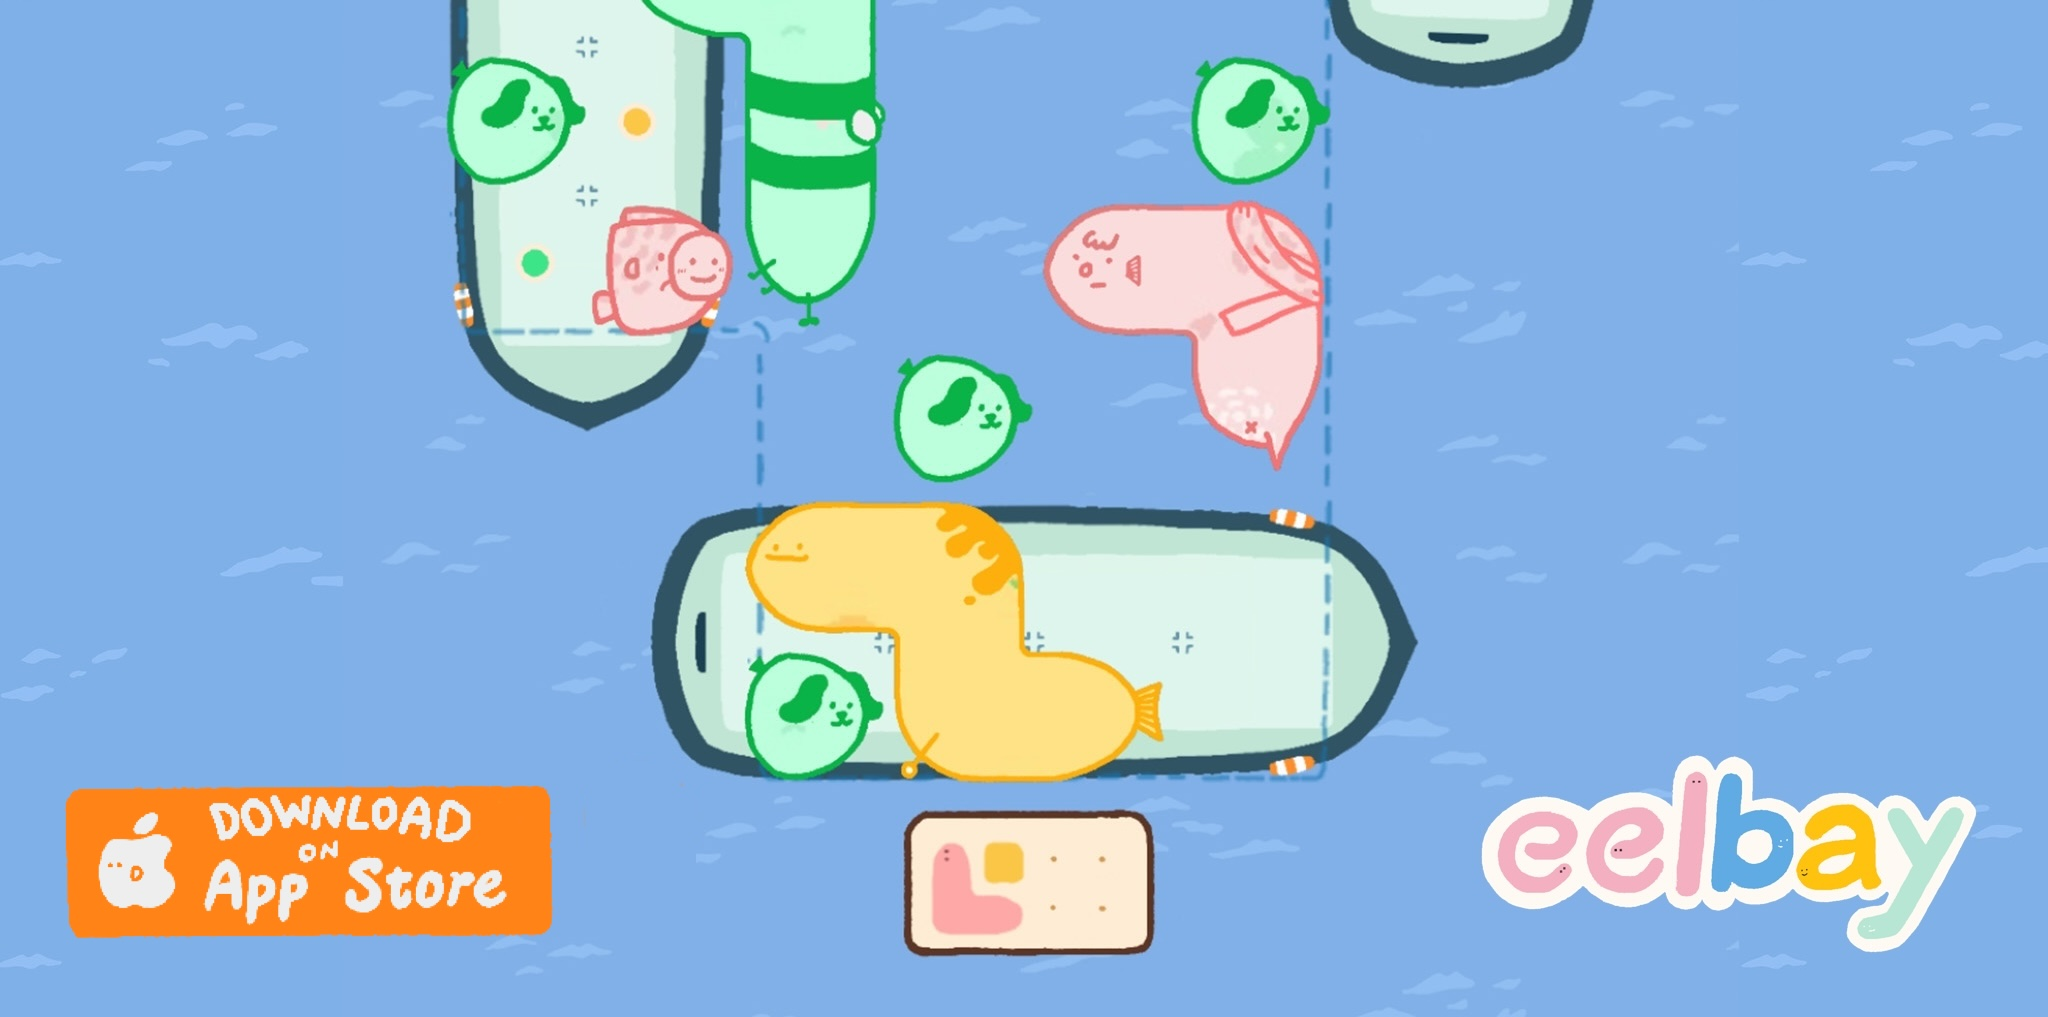
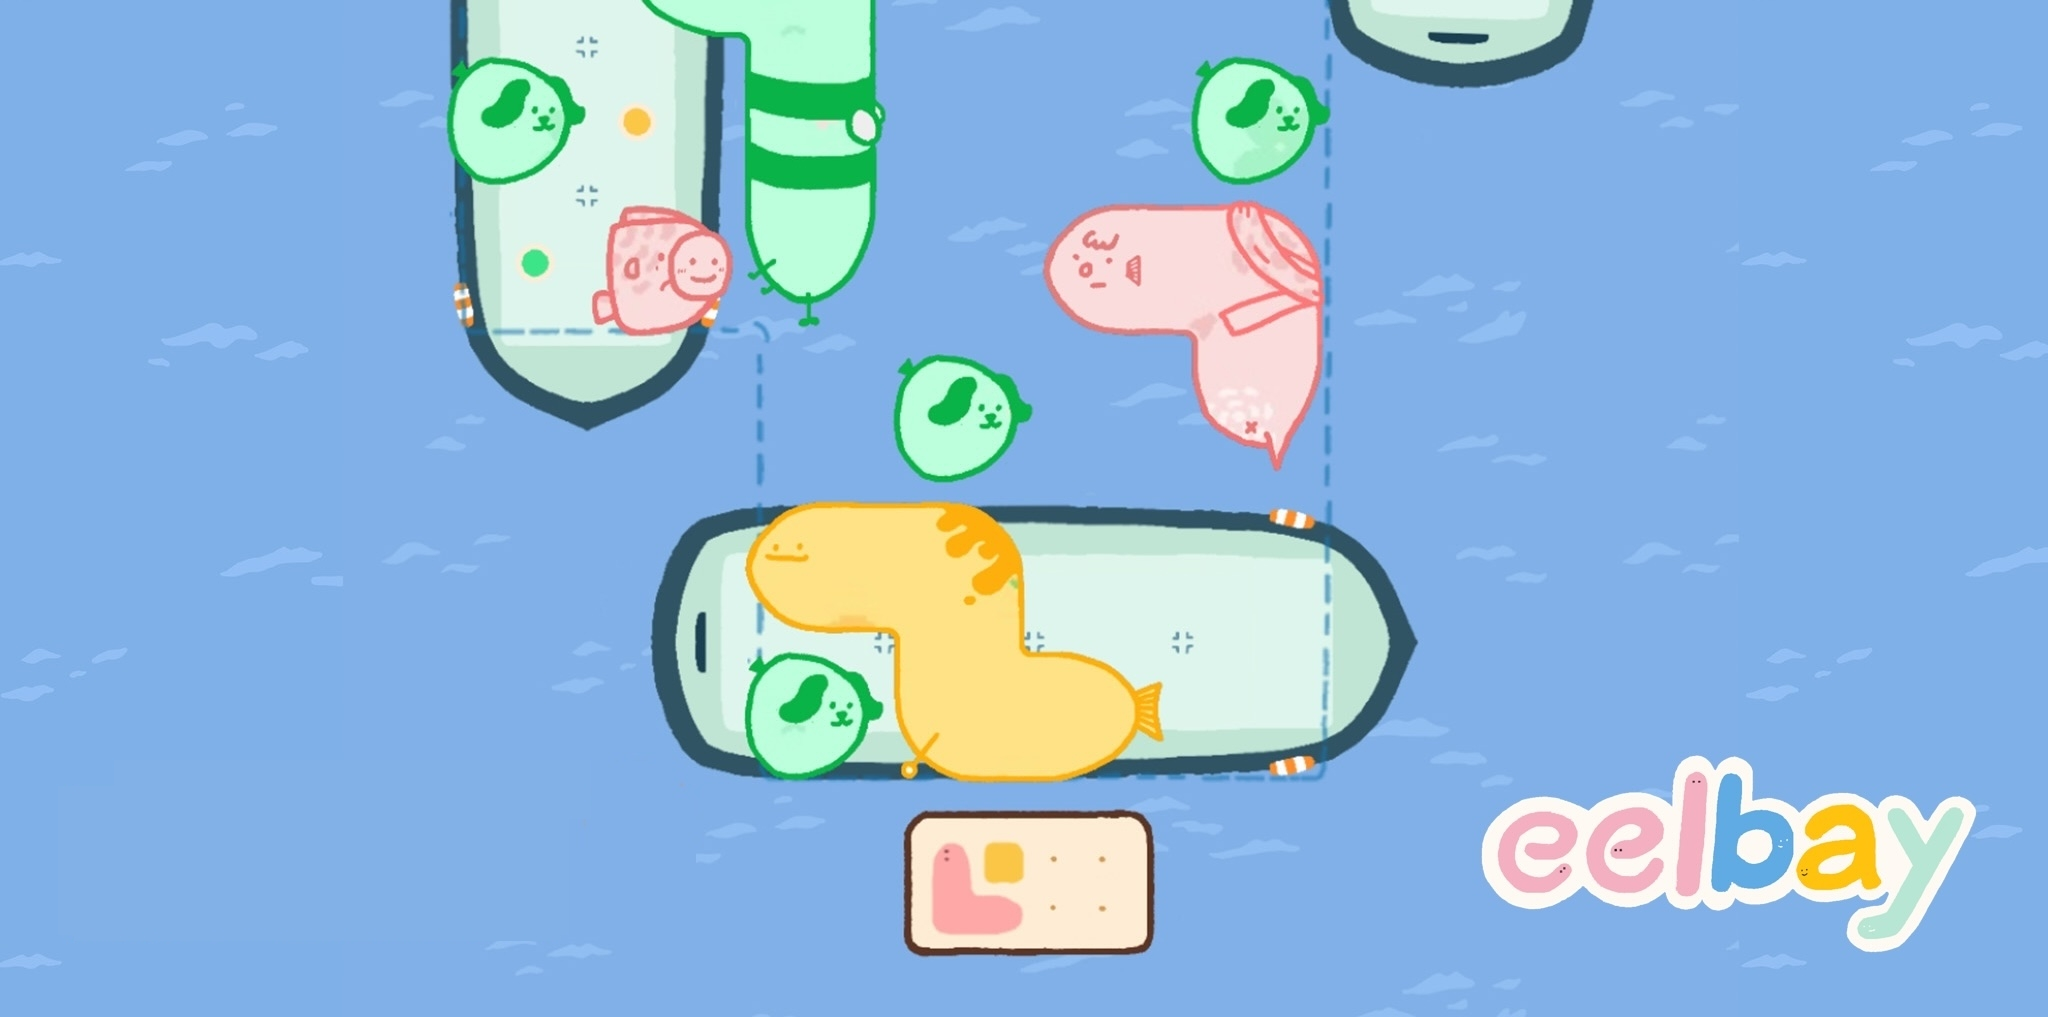
Remove ios and android from eelbay

Changed region(s): [[0.0312, 0.762, 0.2812, 0.9449]]

diff --git a/index.html b/index.html
@@ -40,7 +40,7 @@
         <img src="assets/threethreethree.png"></img>
     </div>
     <div id="greeting">
-        <p> small studio making cute but difficult games </p>
+        <p> small game studio making cute but difficult games </p>
         <br>
     </div>
 
